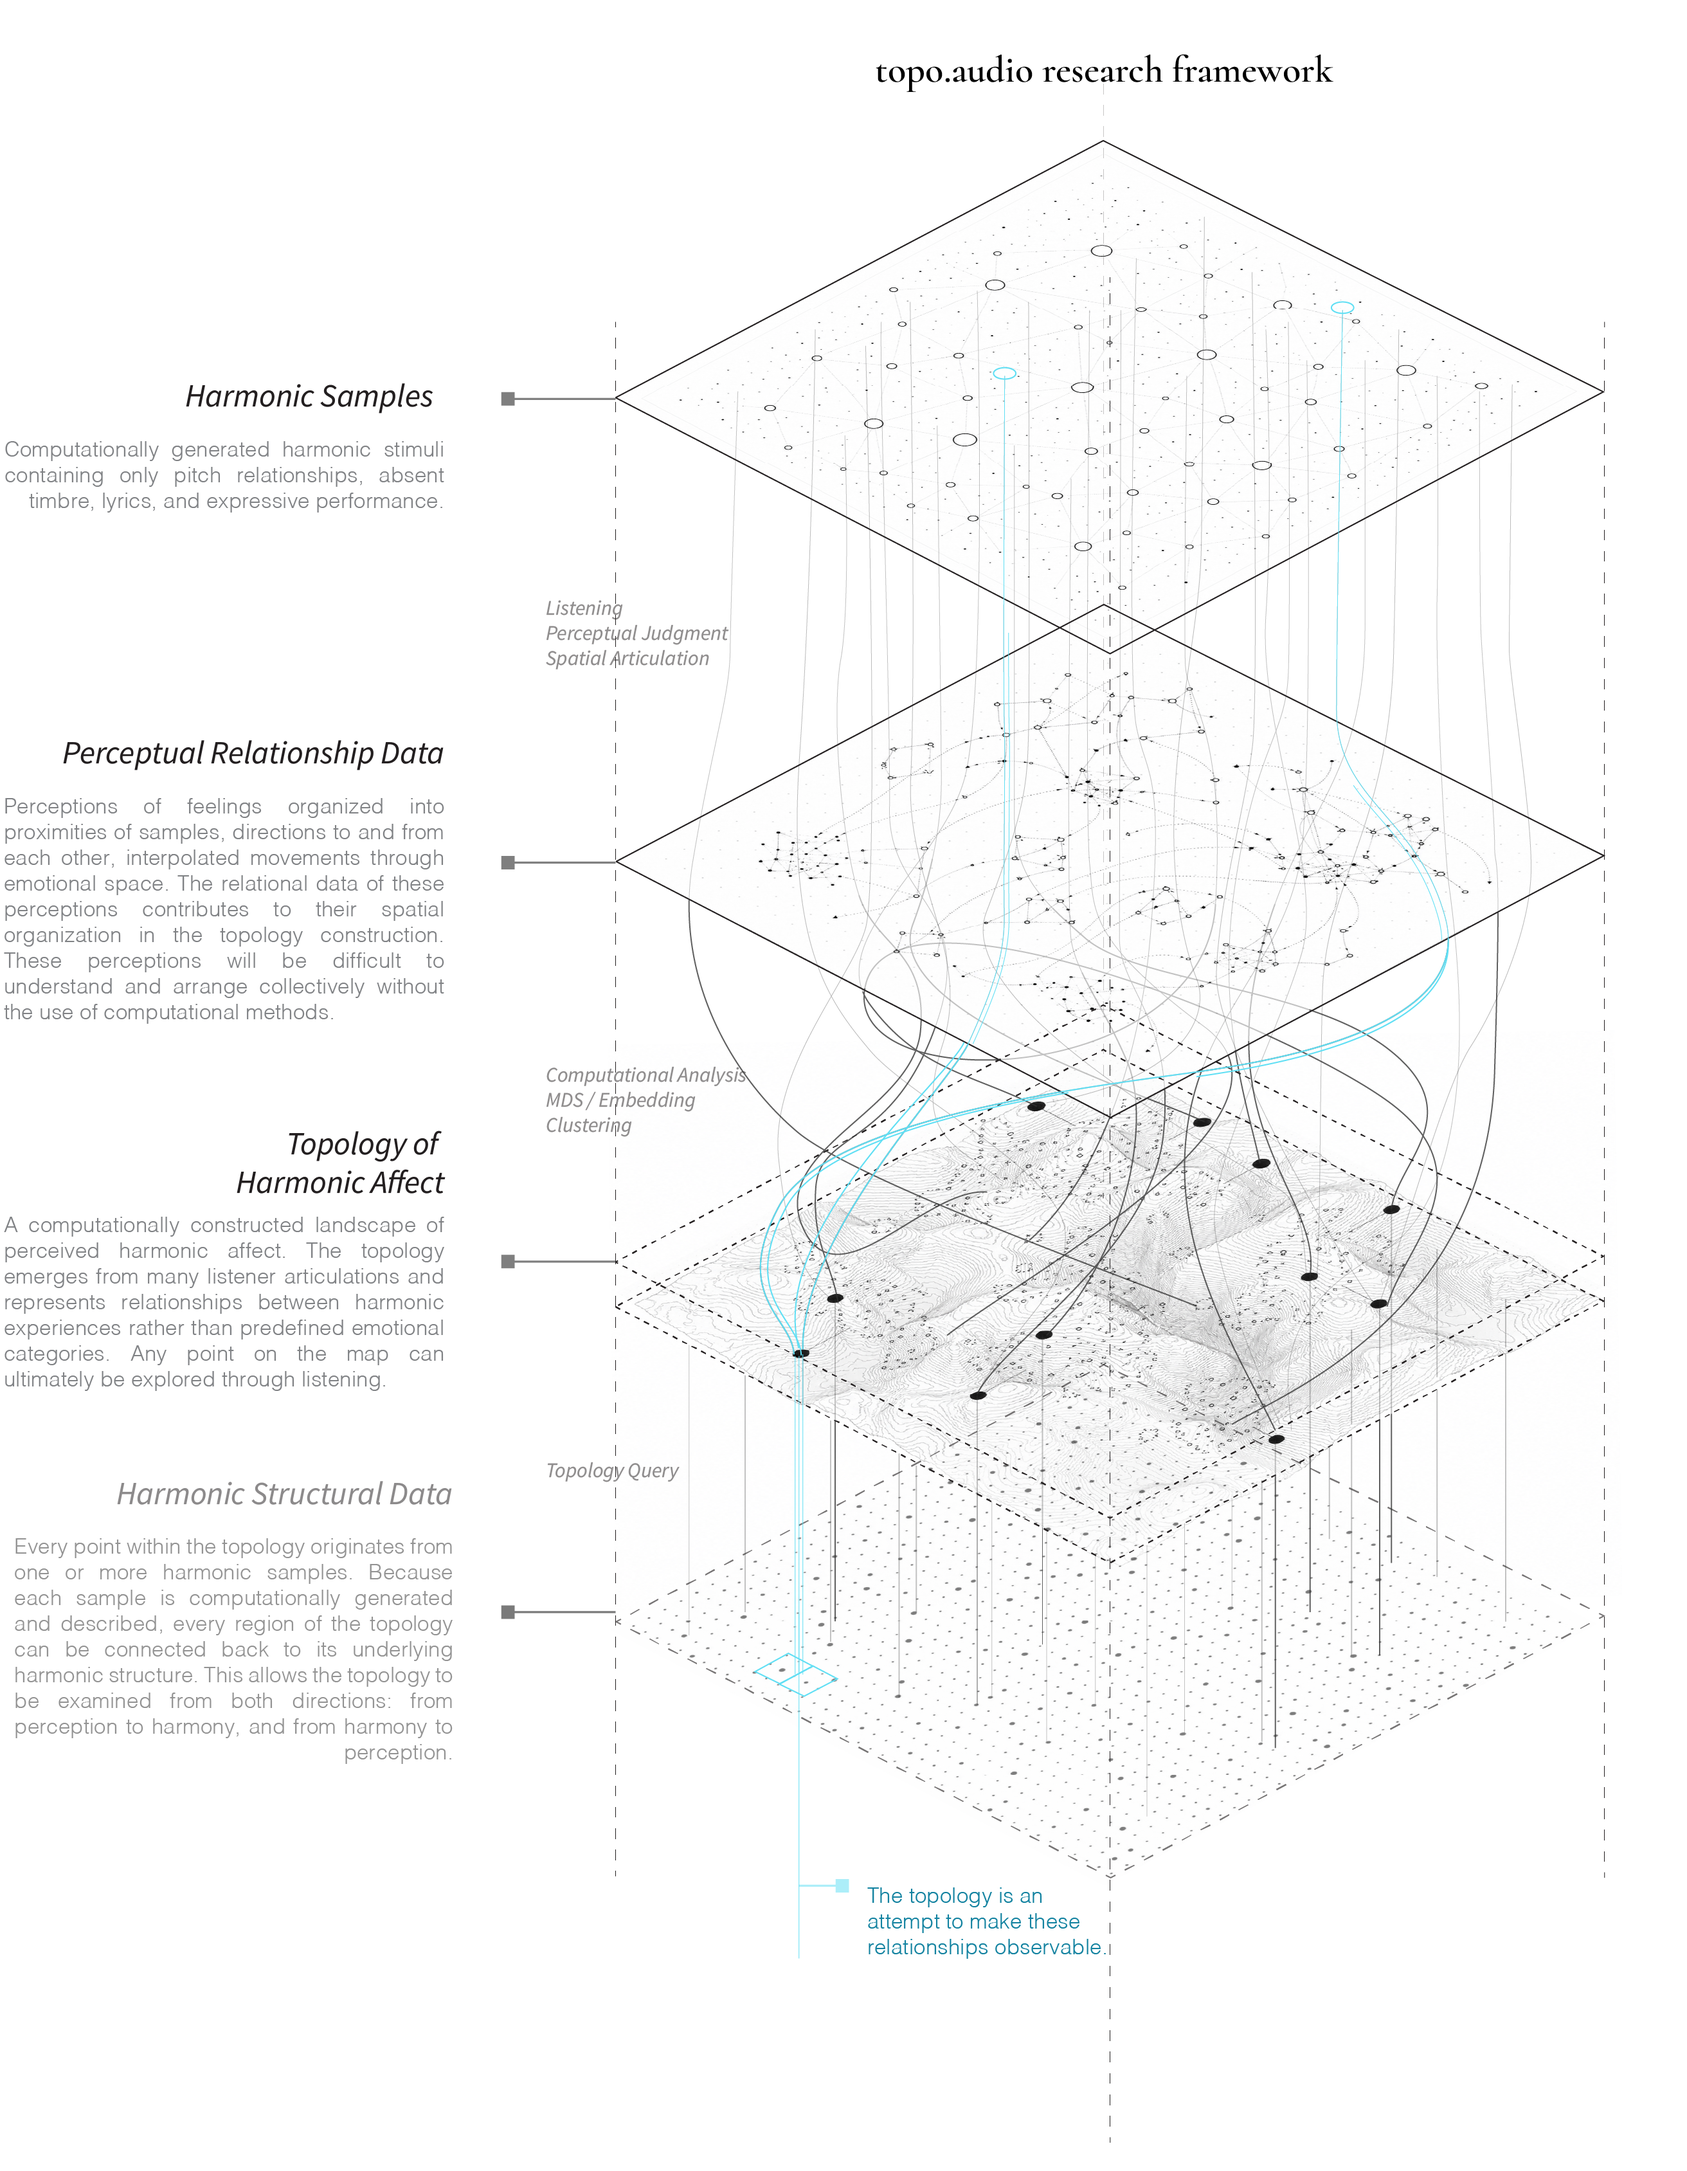
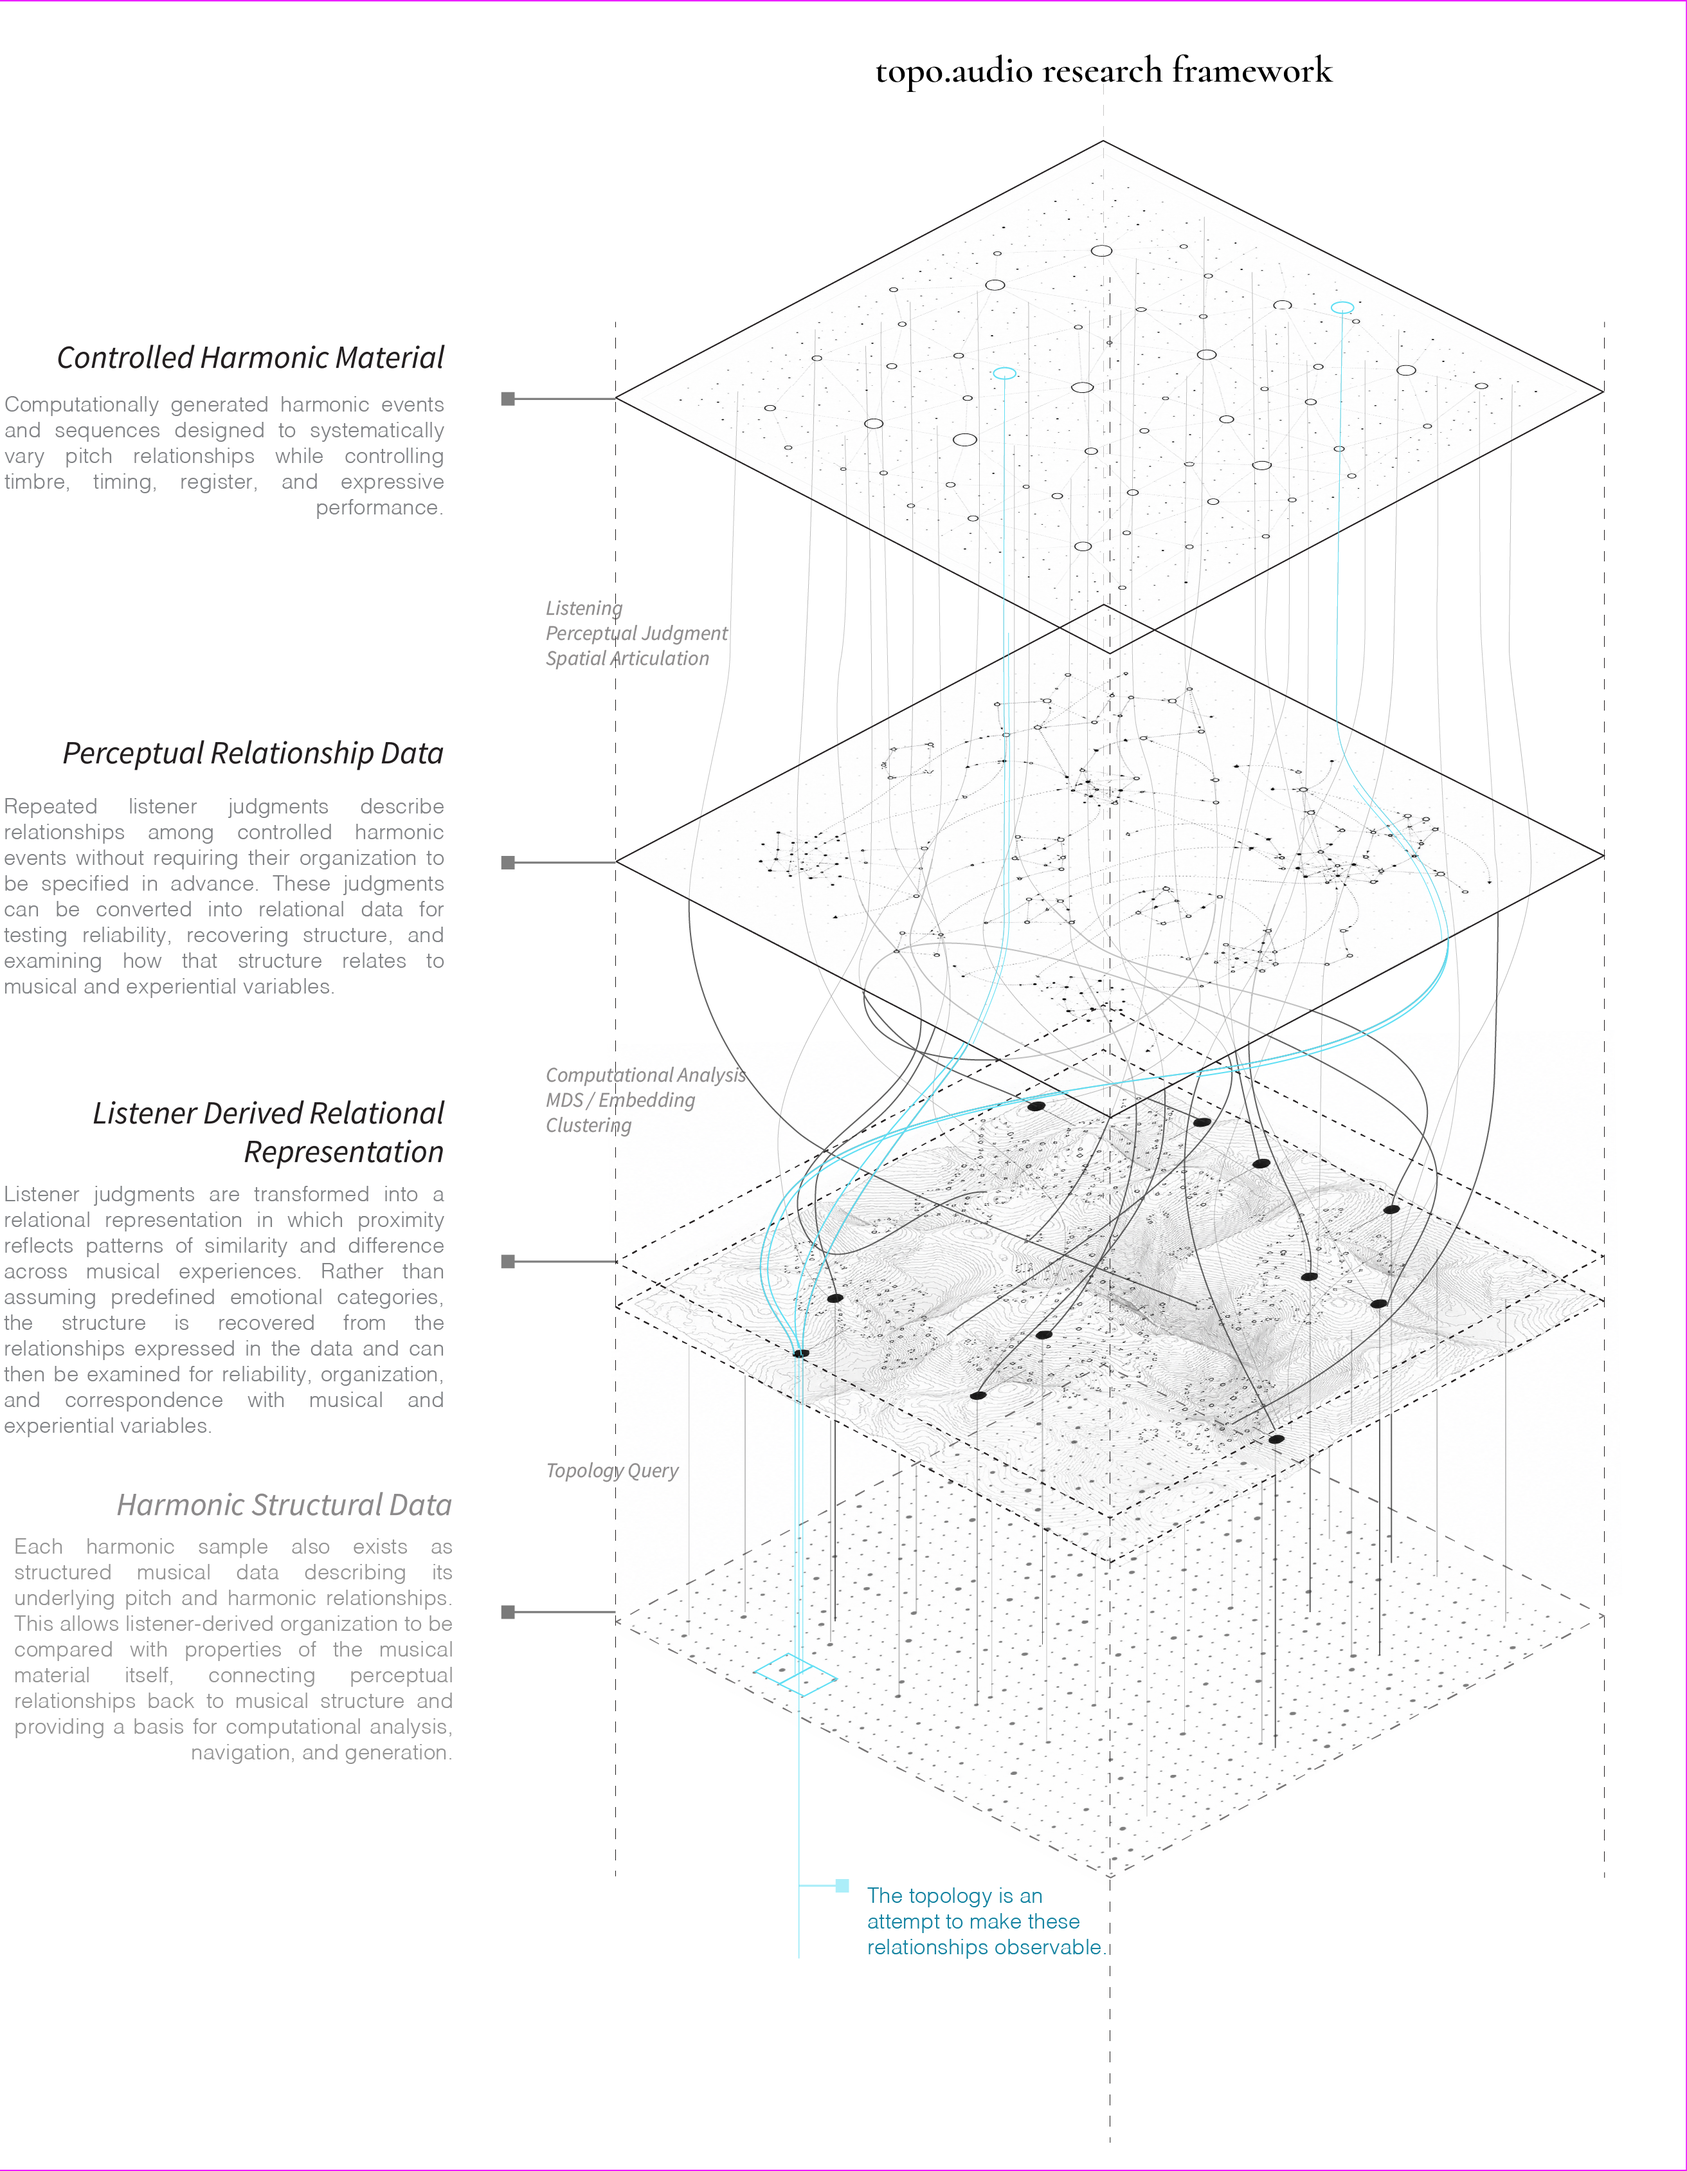
Update academic CV and refine site content

diff --git a/src/sections/Intro.jsx b/src/sections/Intro.jsx
@@ -13,24 +13,24 @@ function Intro() {
         <SectionGrid>
           <FadeIn className="intro-copy">
             <SectionTitle>
-              emotional
+              topologies
               <br />
-              topology
+              of harmonic
               <br />
-              of harmony
+              experience
             </SectionTitle>
 
             <p className="intro-subtitle">
-              exploring how listener-derived perceptual topologies can connect
-              the structure of harmony with the emotional organization of
-              musical experience.
+              investigating whether relationships in how listeners experience
+              music can be measured, represented computationally, and used as
+              material for musical navigation and composition.
             </p>
           </FadeIn>
 
           <FadeIn className="intro-figure">
             <LightboxImage
               src="/diagrams/intro-diagram.webp"
-              alt="Conceptual relationship between harmony, perception, and emotional topology"
+              alt="Conceptual relationship between harmony, listener experience, and computational representation"
               className="intro-diagram"
             />
           </FadeIn>

diff --git a/src/pages/HomePage.jsx b/src/pages/HomePage.jsx
@@ -14,8 +14,6 @@ function HomePage() {
             <Link to="/brief">/BRIEF</Link>
             <Link to="/about">/ABOUT</Link>
             <Link to="/bibliography">/BIBLIOGRAPHY</Link>
-            <Link to="/methodology">/METHODOLOGY</Link>
-            <Link to="/research-log">/RESEARCH LOG</Link>
             <Link to="/tools">/TOOLS</Link>
           </nav>
         </div>

diff --git a/src/components/SiteMenu.jsx b/src/components/SiteMenu.jsx
@@ -26,8 +26,6 @@ function SiteMenu() {
         <Link to="/about">/ABOUT</Link>
         <Link to="/cv">/CV</Link>
         <Link to="/bibliography">/BIBLIOGRAPHY</Link>
-        <Link to="/methodology">/METHODOLOGY</Link>
-        <Link to="/research-log">/RESEARCH LOG</Link>
         <Link to="/tools">/TOOLS</Link>
       </nav>
     </div>
